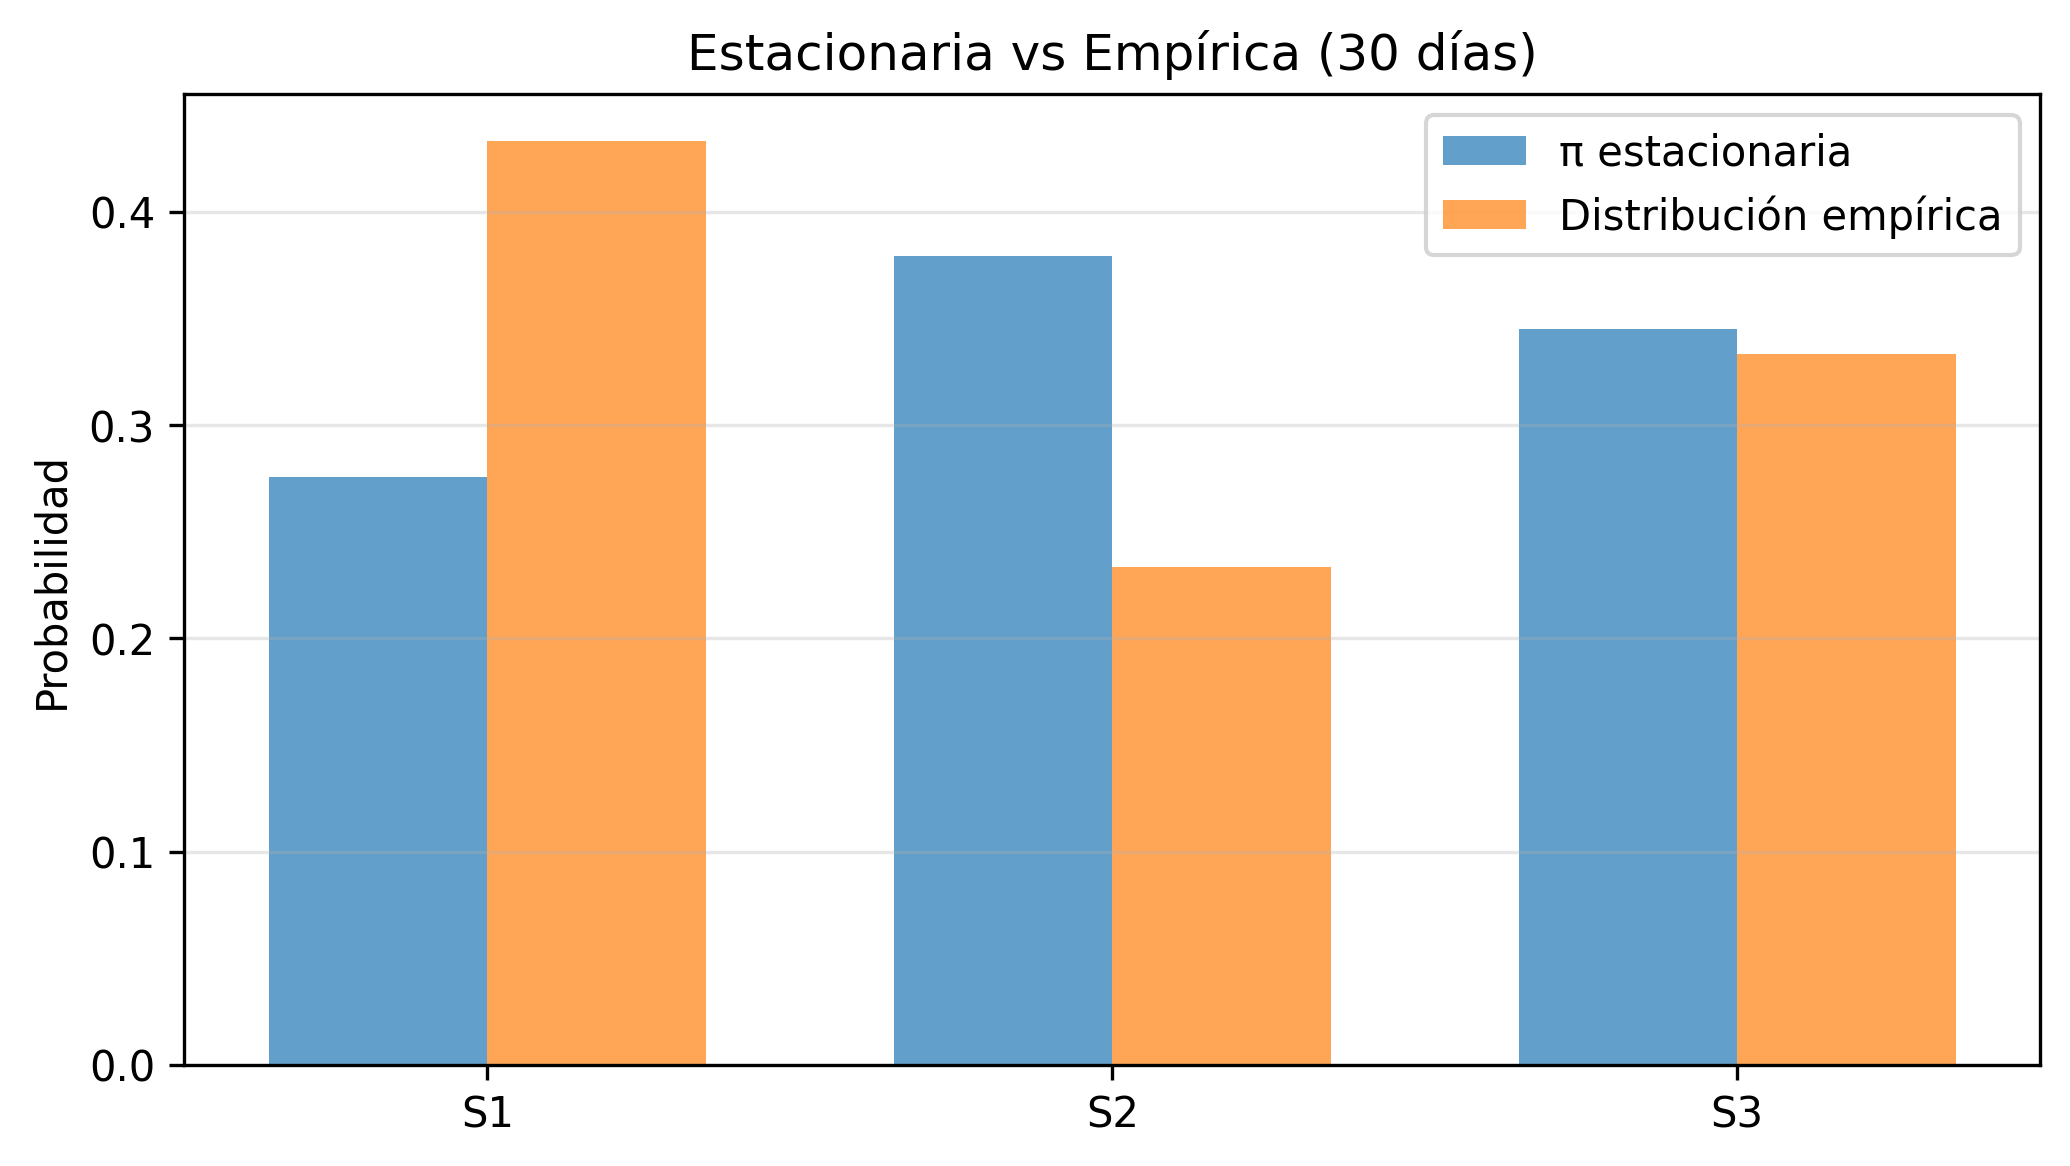
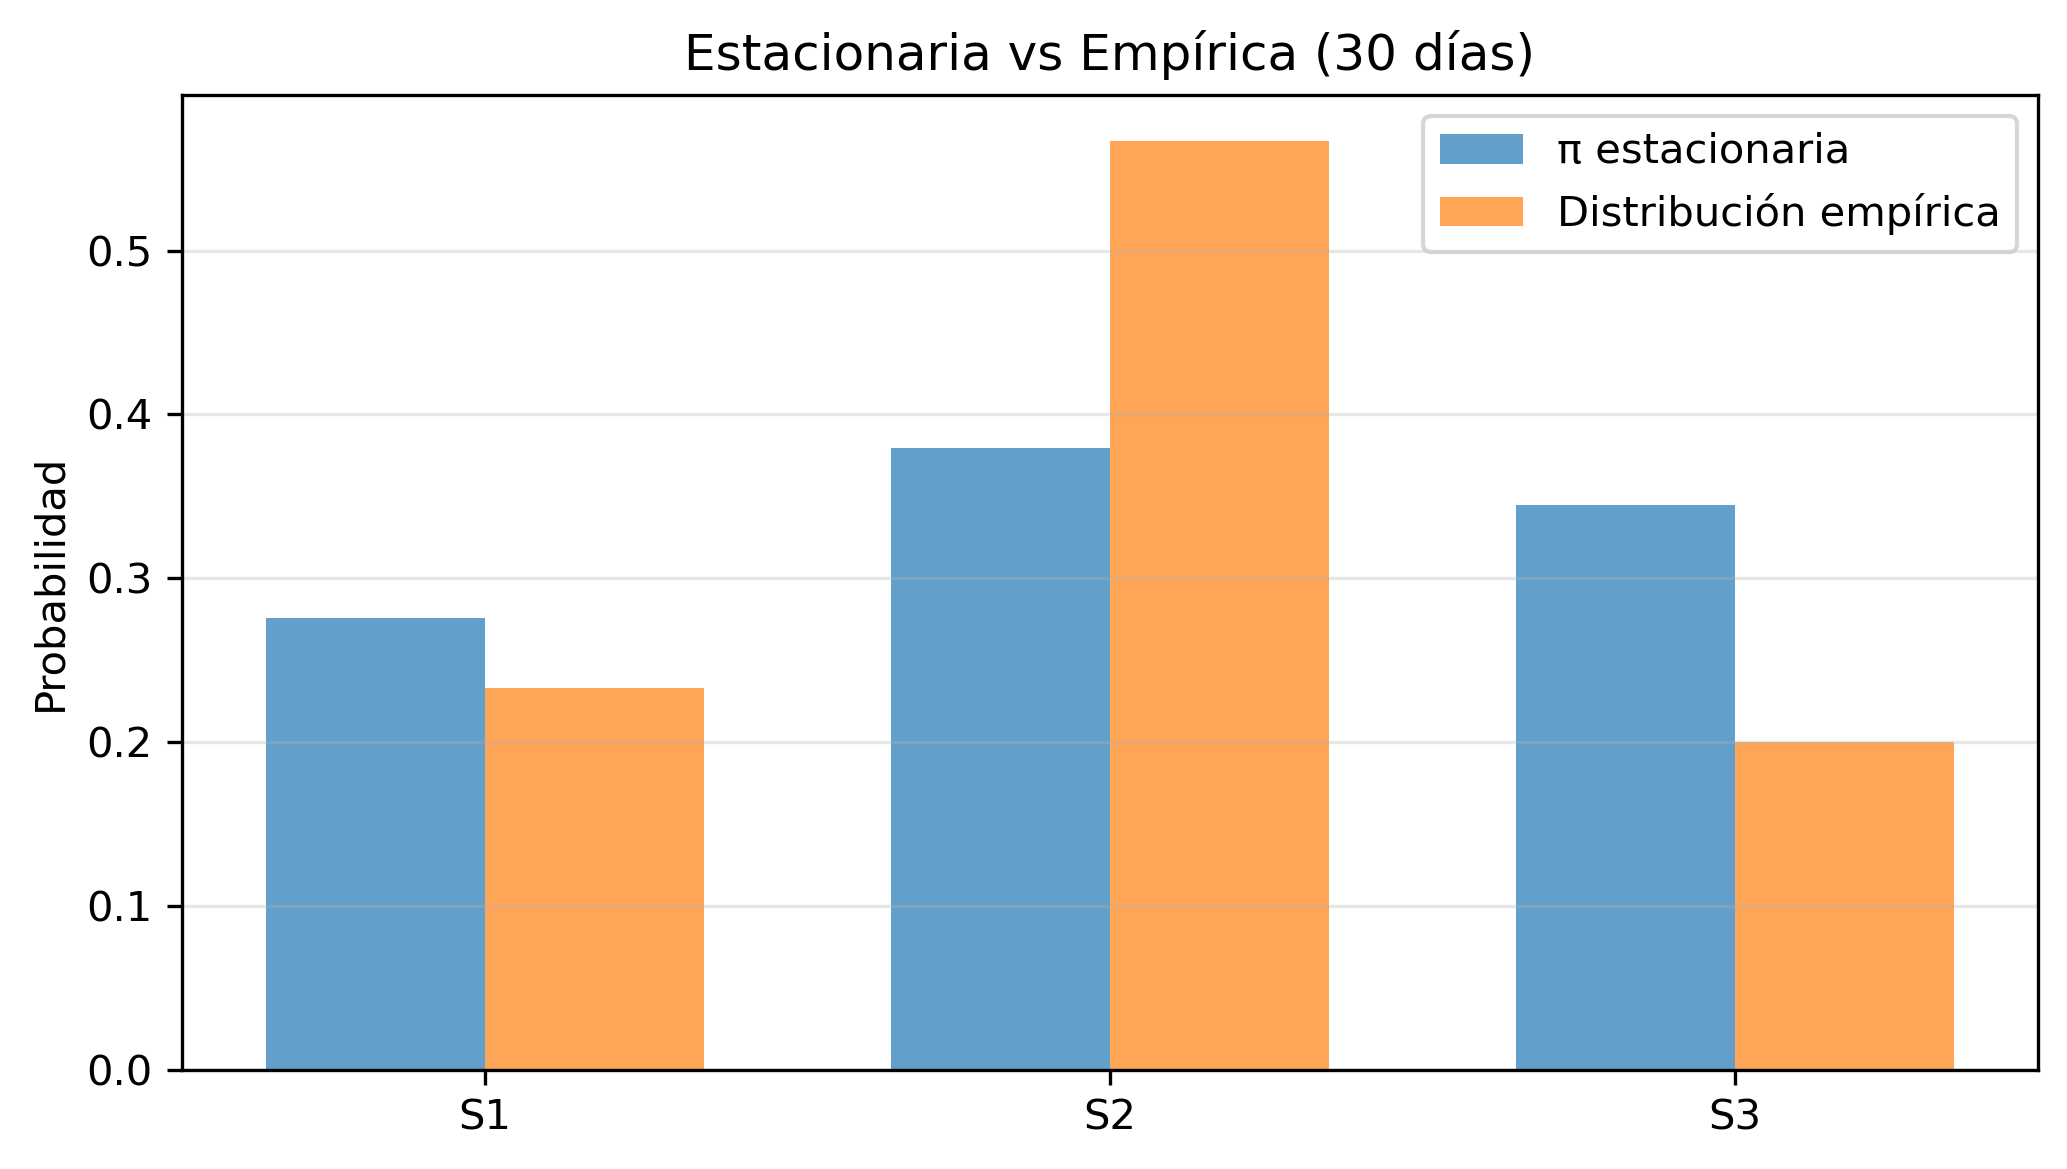
grafico actualizado

diff --git a/graficos_problema2.py b/graficos_problema2.py
@@ -18,7 +18,7 @@ pi = stationary_distribution(P)
 # (2) Simulación 30 días
 # ---------------------------------------------
 dias = 30
-estados_simulados = simulate_markov_chain(P, dias, initial_state=0)
+estados_simulados = np.array([0, 0, 2, 2, 2, 2, 2, 2, 1, 1, 1, 1, 1, 1, 1, 1, 1, 1, 1, 1, 0, 1, 1, 1, 1, 0, 1, 0, 0, 0])
 dist_empirica = empirical_distribution(estados_simulados, n_states=P.shape[0])
 
 
